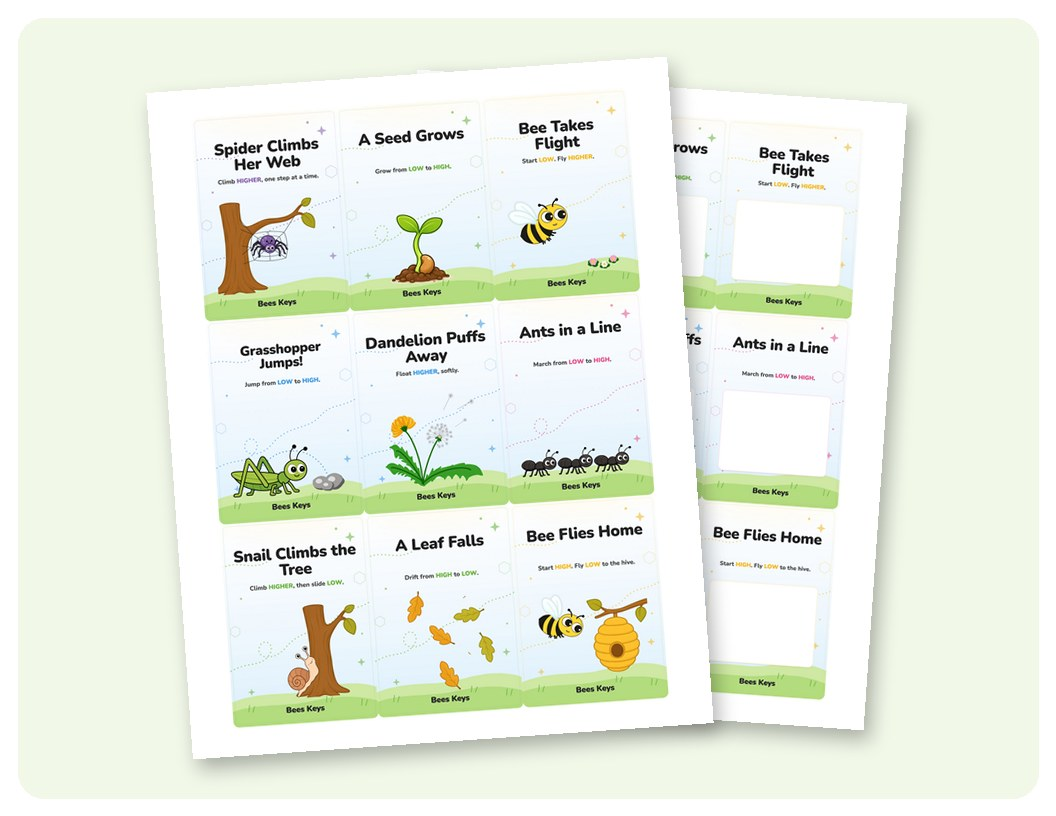
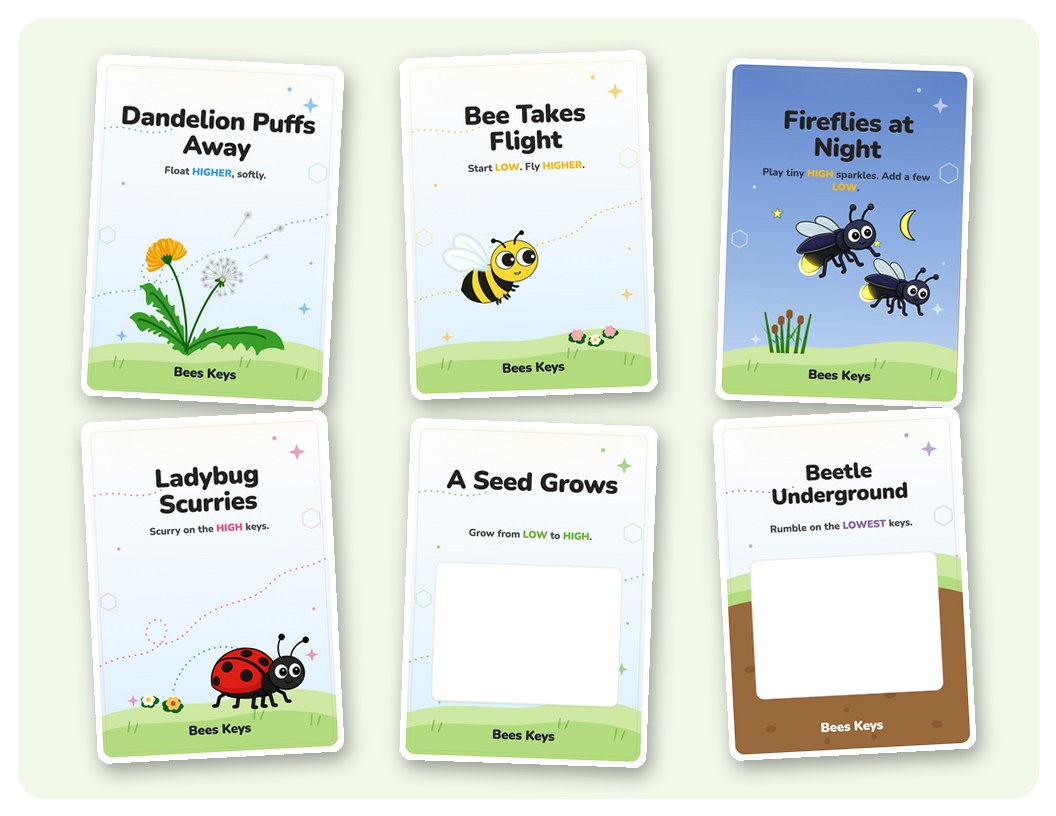
Use the six-card lineup for the Sound Garden list thumbnail
Matches the social card: the same two rows of three, four illustrated and
two blank, on the pale green panel. Cards read better in the list than two
fanned sheets did, where nine tiny cards a sheet were just texture.

Row height is the binding constraint on a landscape thumbnail, so the
cards size to clear the panel rather than filling it edge to edge.

Also cuts the "Comes with..." sentence from the card blurb, and the alt
text now describes six cards rather than two sheets.

diff --git a/resources.html b/resources.html
@@ -92,7 +92,7 @@
         <article class="res-card">
           <div class="res-shot">
             <img src="images/resources/sound-garden-adventure-cards-card.jpg"
-                 alt="Bee's Sound Garden: two sheets of story cards fanned out, the illustrated deck in front with a spider, a seed, and a bee, and the color-your-own deck behind with blank squares."
+                 alt="Bee's Sound Garden: six story cards laid out in two rows, four illustrated with a dandelion, a bee, fireflies and a ladybug, and two from the color-your-own deck with the picture left blank."
                  width="1056" height="816" />
           </div>
 
@@ -111,8 +111,7 @@
               Eighteen piano improv cards. Imagine what sounds from the real
               world could sound like at the piano: a spider climbs, a leaf
               falls, a beetle rumbles down low, paying attention to the
-              highs/lows on the card. Comes with a how-to-play sheet and a
-              second deck left blank to illustrate.
+              highs/lows on the card.
             </p>
 
             <a class="res-go" href="resources/sound-garden-adventure-cards.html">
